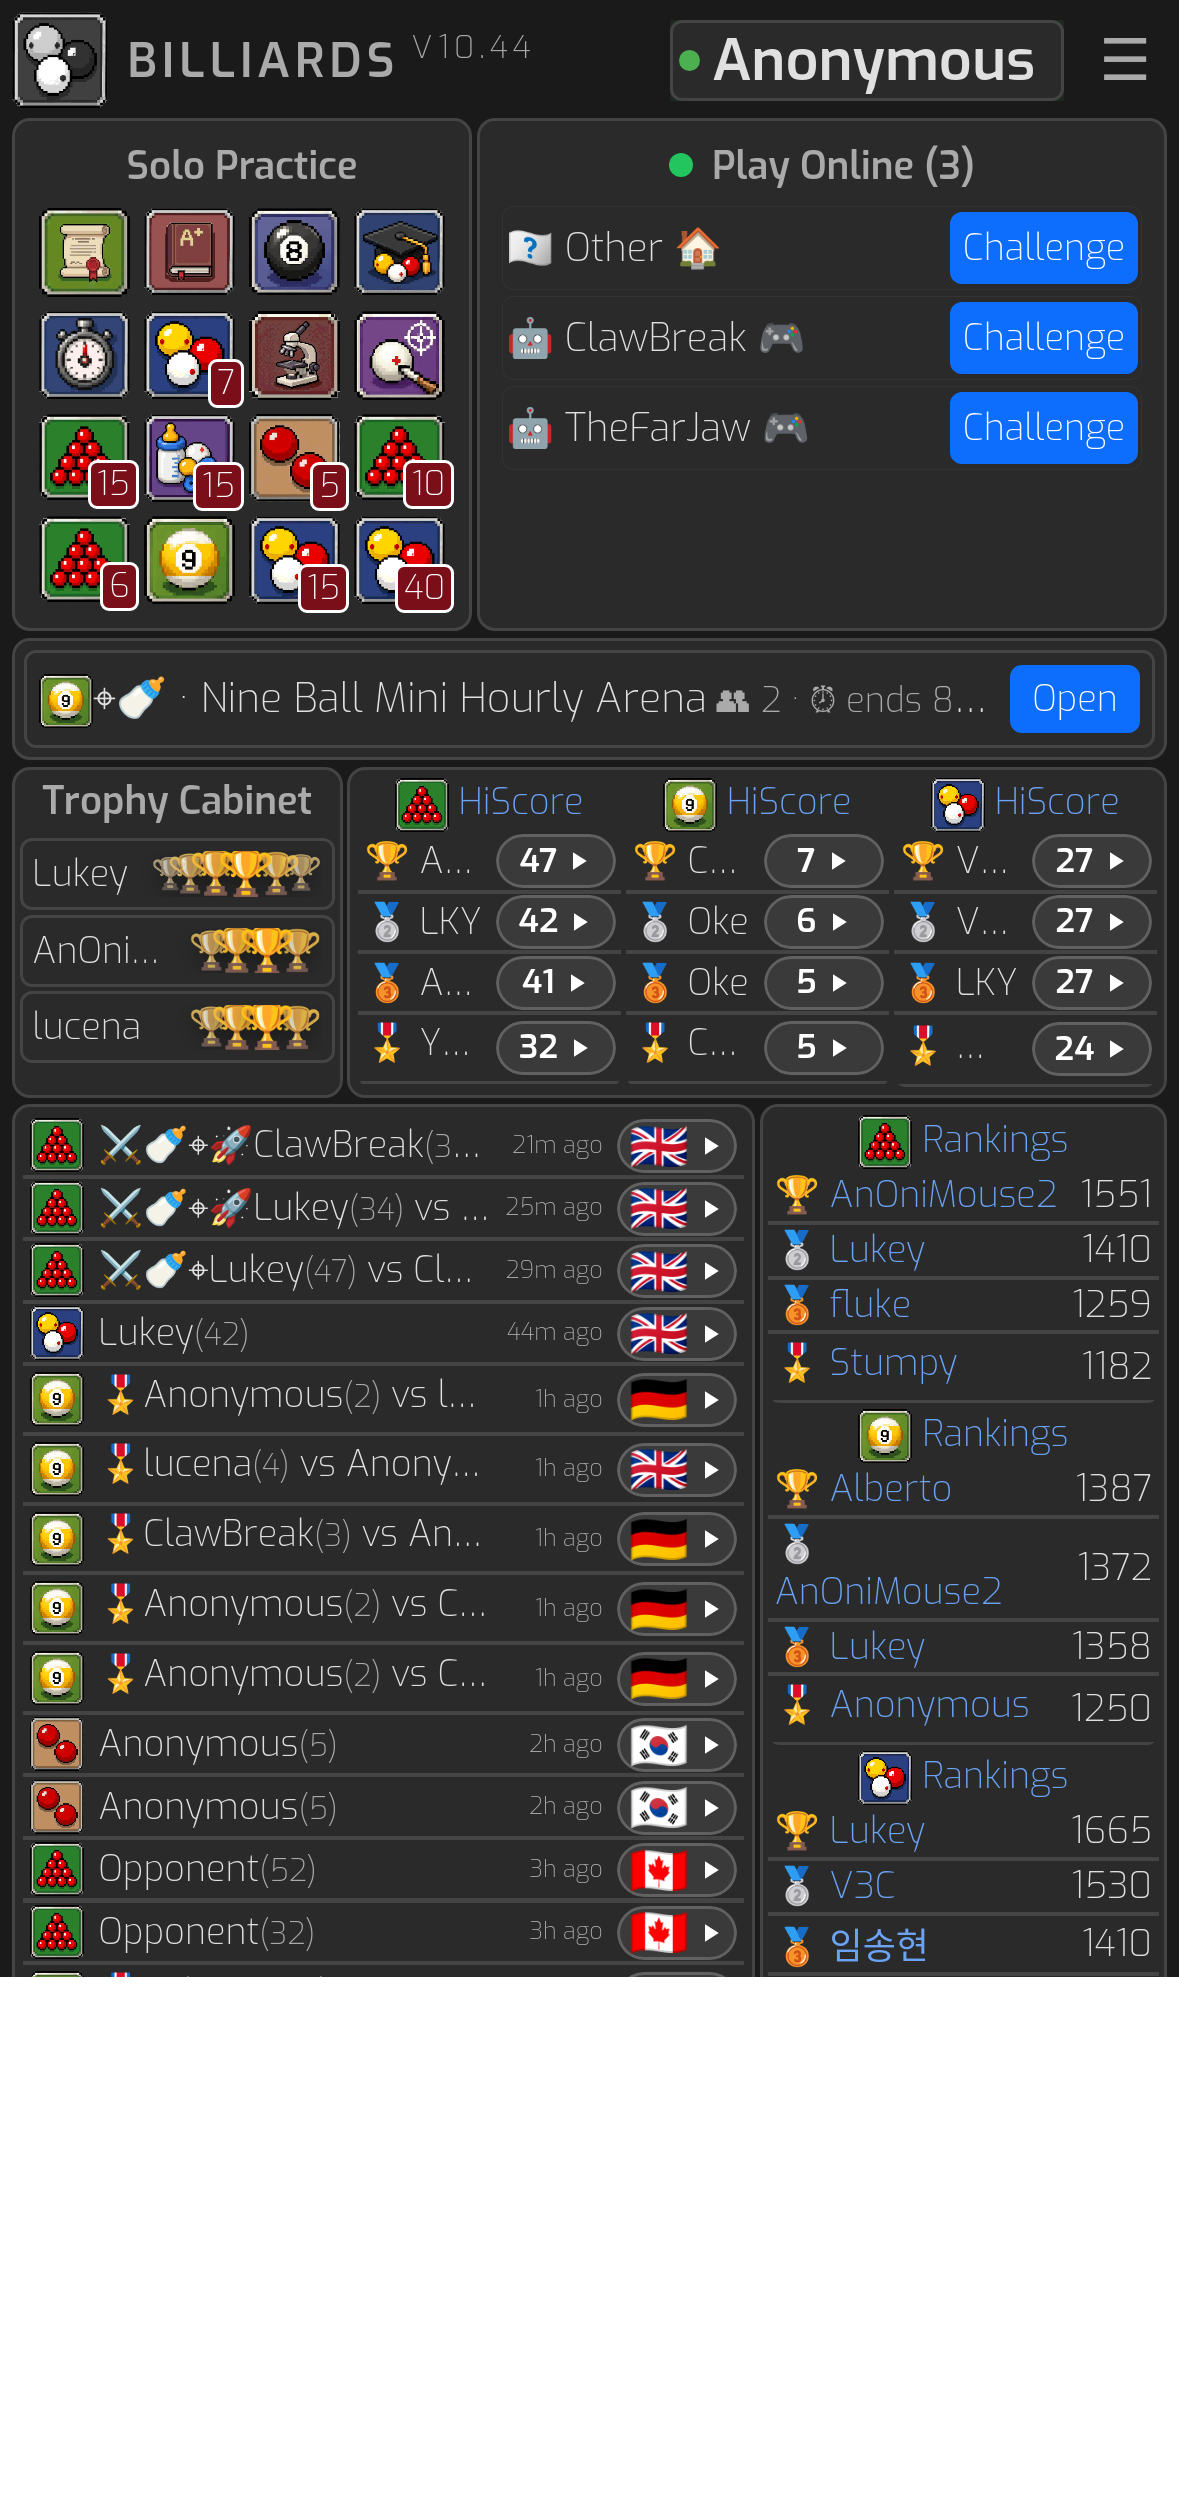
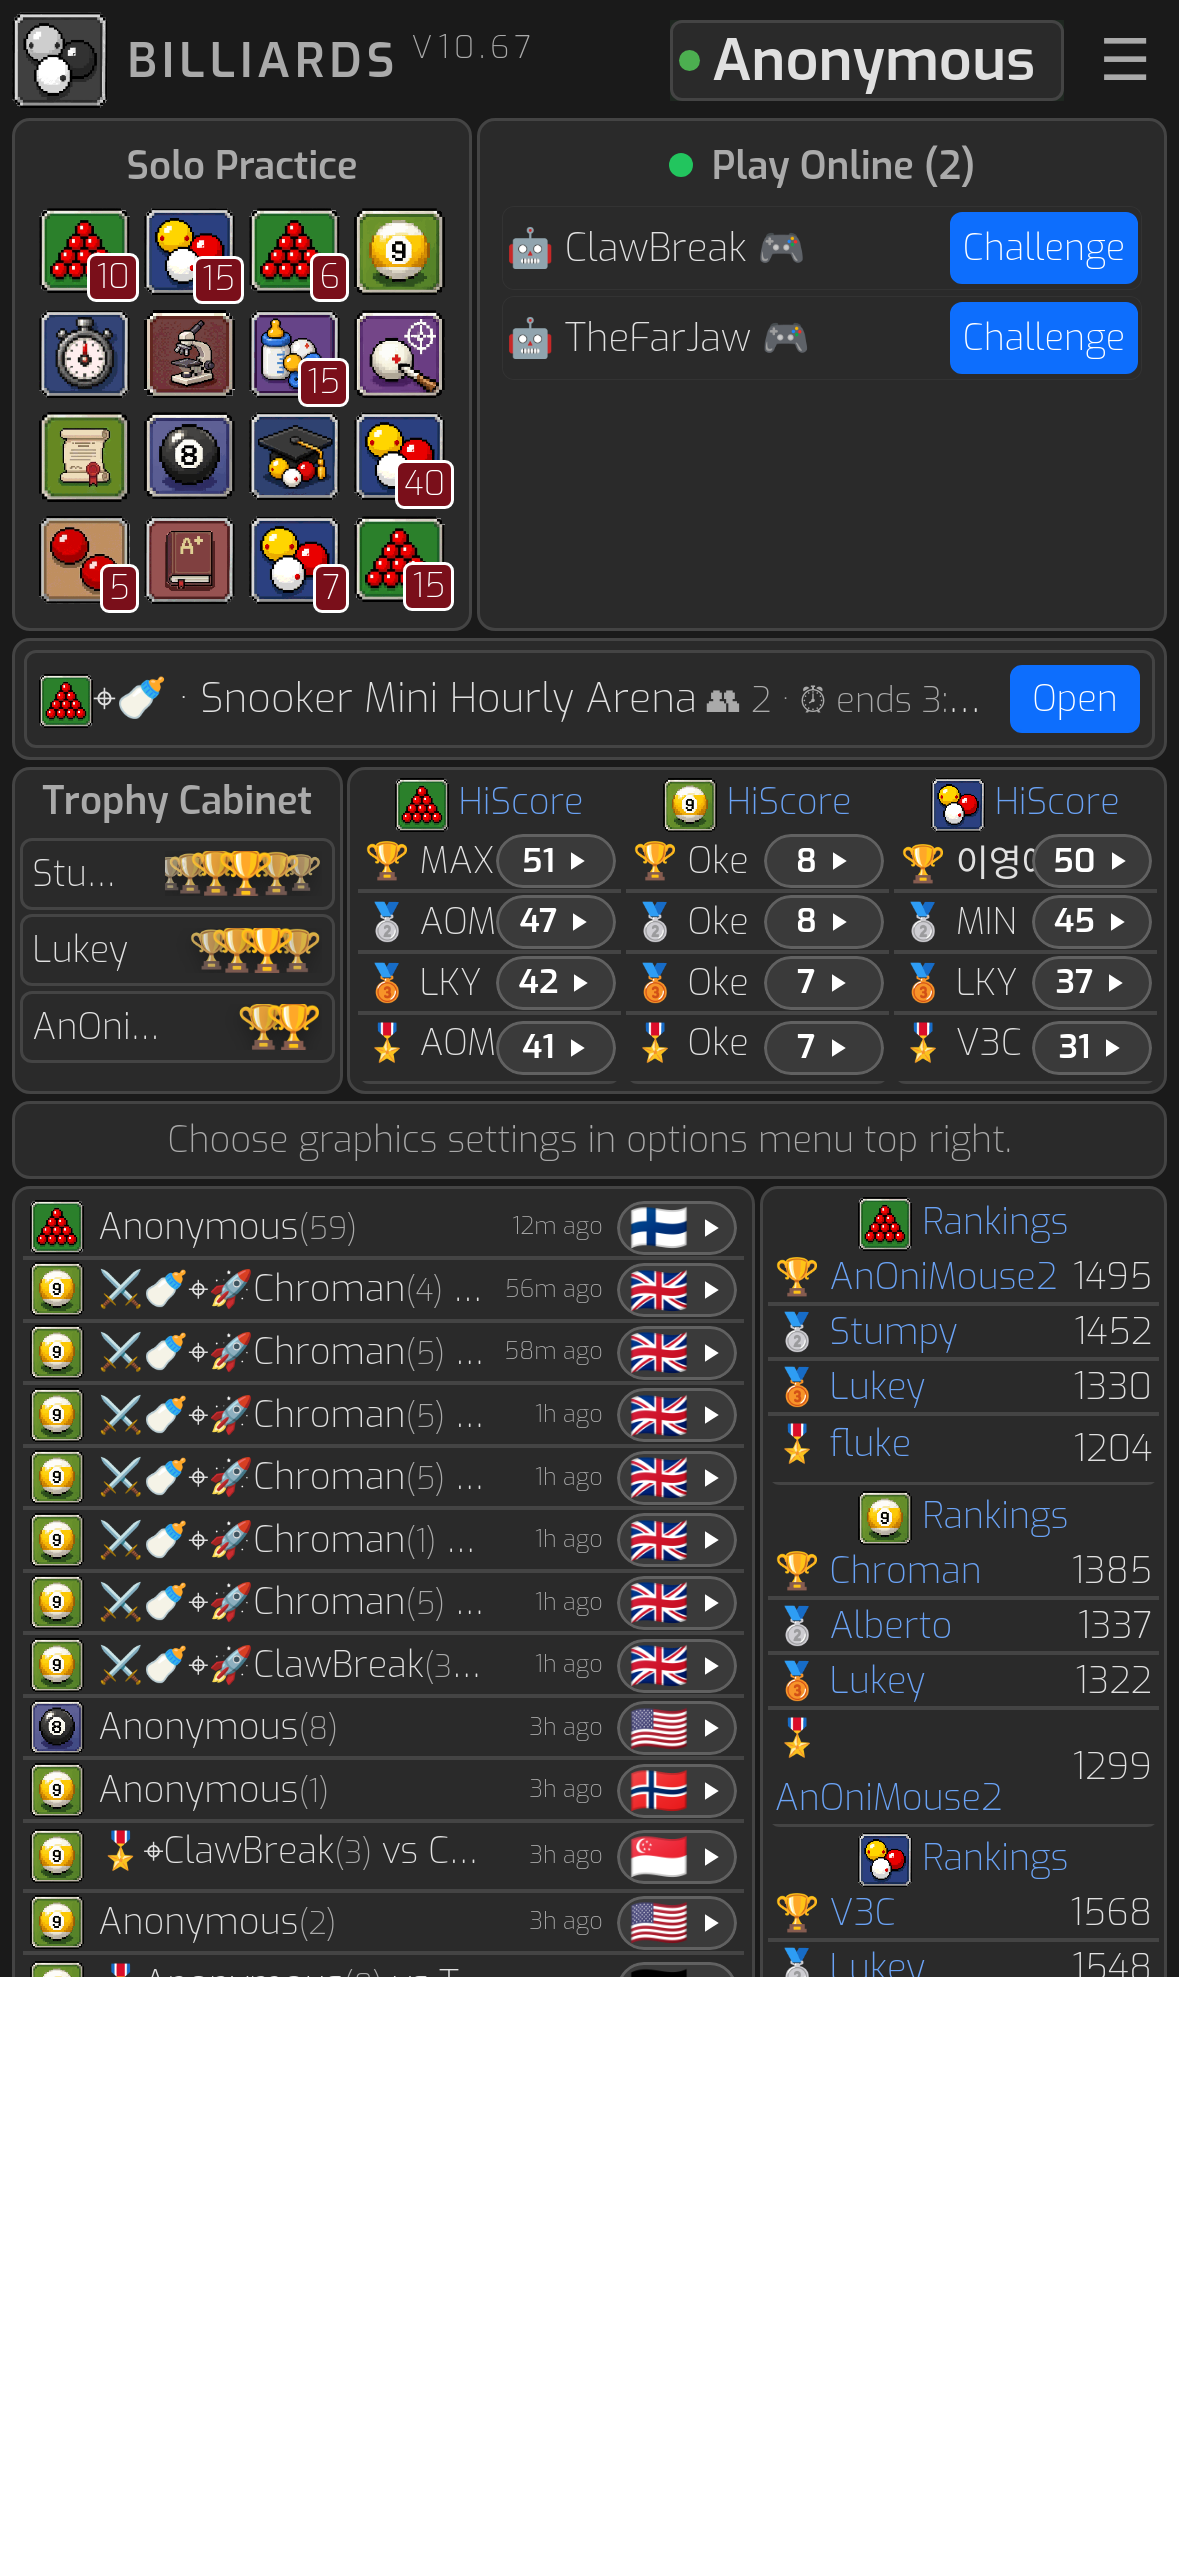
fmt

Changed region(s): [[0.0, 0.0, 1.0, 0.8106], [0.4275, 0.0312, 0.9771, 0.1871], [0.9466, 0.0, 0.9771, 0.0312]]

diff --git a/src/client/info-panel.js b/src/client/info-panel.js
@@ -6,6 +6,15 @@ import './replay-button.js';
 import './cabinate.js';
 import './motd-panel.js';
 
+// The replay pill shows only a play icon, so it needs a text alternative: without
+// one every pill is an unnamed "link" in a screen reader's link list, and the
+// different match URLs look like identical links with different destinations.
+const replayLabel = m => {
+    const score = v => v != null ? ` ${v}` : '';
+    return `Replay ${m.ruleType} match: ${m.winner}${score(m.winnerScore)}`
+        + (m.loser ? ` vs ${m.loser}${score(m.loserScore)}` : '');
+};
+
 class InfoPanel extends StoreElement {
     static styles = INFO_PANEL_STYLES;
     connectedCallback() {
@@ -67,7 +76,7 @@ class InfoPanel extends StoreElement {
         return hiscoreGames.map(game => html`
             <div class="tbl${game === 'sagu' ? ' sagu-hi' : ''}"><table><caption><a href="${SCOREBOARD_URL}/leaderboard" target="_blank" rel="noopener" style="font-weight:200;font-size:0.75rem">${ruleIcon(game)} HiScore</a></caption>
             <tr><th>Name</th><th></th></tr>
-                ${hiscores[game].slice(0, 4).map((s, i) => html`<tr><td>${renderTrophy(i)} ${s.name}</td><td><replay-button url="${replayUrl(`${SCOREBOARD_URL}/api/rank/${s.id}?ruletype=${game}&lod=${userStore.lod}`, userStore.clientId, userStore.userName)}" label="${s.score}"></replay-button></td></tr>`)}
+                ${hiscores[game].slice(0, 4).map((s, i) => html`<tr><td>${renderTrophy(i)} ${s.name}</td><td><replay-button url="${replayUrl(`${SCOREBOARD_URL}/api/rank/${s.id}?ruletype=${game}&lod=${userStore.lod}`, userStore.clientId, userStore.userName)}" label="${s.score}" .ariaLabel=${`Replay ${game} HiScore: ${s.name} ${s.score}`}></replay-button></td></tr>`)}
             </table></div>
         `);
     }
@@ -89,7 +98,7 @@ class InfoPanel extends StoreElement {
                                 <td class="city-col">${m.locationCity ?? ''}</td>
 <td class="replay-col">
                                     ${m.hasReplay
-                                        ? html`<replay-button prefix="${flag(m.locationCountry).emoji}" prefixTitle="${flag(m.locationCountry).title}" url="${replayUrl(`${SCOREBOARD_URL}/api/match-replay?id=${m.id}&lod=${userStore.lod}`, userStore.clientId, userStore.userName)}"></replay-button>`
+                                        ? html`<replay-button prefix="${flag(m.locationCountry).emoji}" prefixTitle="${flag(m.locationCountry).title}" .ariaLabel=${replayLabel(m)} url="${replayUrl(`${SCOREBOARD_URL}/api/match-replay?id=${m.id}&lod=${userStore.lod}`, userStore.clientId, userStore.userName)}"></replay-button>`
                                         : flag(m.locationCountry).emoji}
                                 </td>
                             </tr>`)}
@@ -100,7 +109,7 @@ class InfoPanel extends StoreElement {
                     <div class="group-body">
                         ${games.map(game => html`
                             <div class="tbl"><table><caption><a href="${SCOREBOARD_URL}/elo" target="_blank" rel="noopener">${ruleIcon(game)} <span style="font-size:0.75rem;font-weight:200">Rankings</span></a></caption>
-                             <tr><th>Name</th><th>Score</th><th>W</th><th>L</th></tr>
+                             <tr><th>Name</th><th>Score</th></tr>
                                  ${topPlayers[game].slice(0, 4).map((p, i) => html`<tr>
                                      <td><a href="${SCOREBOARD_URL}/player/${encodeURIComponent(p.name)}?ruleType=${game}">${renderTrophy(i)} ${p.name}</a></td>
                                      <td>${Math.round(p.conservativeRating)}</td>

diff --git a/src/client/styles.js b/src/client/styles.js
@@ -266,9 +266,9 @@ export const SOLO_PANEL_STYLES = css`
 export const INFO_PANEL_STYLES = css`
     :host { display: block; overflow-y: hidden; font-family: 'Exo', sans-serif; font-weight: 200; font-size: 0.75rem; color: var(--text); max-height: 40px; opacity: 0; transition: max-height 1s cubic-bezier(0.4, 0, 0.2, 1), opacity 0.6s ease-out 0.15s; }
     /* Capped rather than auto so the reveal can animate. Must clear the tallest
-       layout (a 393px phone: 166px cabinet/HiScore row + 21px MOTD + 413px
-       history/rankings), otherwise the bottom of the match history boxes is cut
-       off by overflow-y: hidden. */
+       layout (a 393px phone: 108px cabinet/HiScore row + 26px MOTD + 413px
+       history/rankings = 547px), otherwise the bottom of the match history
+       boxes is cut off by overflow-y: hidden. */
     :host(.loaded) { max-height: 640px; opacity: 1; }
     .tbl { display: inline-block; vertical-align: top; border-radius: 4px; margin: 0.0625rem; overflow: hidden; }
     table { border-collapse: collapse; width: auto; }
@@ -311,12 +311,14 @@ export const INFO_PANEL_STYLES = css`
        the table out to its max-content width. On a 393px phone each table is
        88px, so once the trophy emoji and the 40px score column (sized for three
        digits) have taken their share the name has ~39px - not enough for "AOM"
-       beside a trophy. Clipping those names ("AnO…") hides who scored, so the
-       name wraps onto a second line instead; a taller row beats a cut-off name.
-       vertical-align stays middle so the name and its medal sit level with the
-       score pill, which is what the cell default gives for a single-line row. */
+       beside a trophy. Rows must stay on one line whatever the name, so the
+       name is left to run a few pixels into the score pill instead of wrapping;
+       the pill paints over the overlap, and the .tbl radius clip trims only a
+       very long name. vertical-align stays middle so the name and its medal sit
+       level with the score pill, which is what the cell default gives for a
+       single-line row. */
     .top-row .hiscores .tbl table { width: 100%; table-layout: fixed; }
-    .top-row .hiscores td:first-child { white-space: normal; overflow-wrap: anywhere; vertical-align: middle; }
+    .top-row .hiscores td:first-child { white-space: nowrap; vertical-align: middle; }
     .top-row .hiscores td:last-child { width: 40px; }
     /* Message of the day, full width under the cabinet and HiScore groups. A
        touch more vertical padding than .group so a single line of text does not

diff --git a/src/client/replay-button.js b/src/client/replay-button.js
@@ -6,7 +6,8 @@ class ReplayButton extends LitElement {
         color: { type: String },
         label: { type: String },
         prefix: { type: String },
-        prefixTitle: { type: String }
+        prefixTitle: { type: String },
+        ariaLabel: { type: String }
     };
 
     static styles = css`
@@ -66,6 +67,7 @@ class ReplayButton extends LitElement {
             <a
                 class="pill"
                 href=${this.url}
+                aria-label=${this.ariaLabel}
                 style=${style}>
                 ${prefixSpan}
                 ${this.label ? html`<span>${this.label}</span>` : ''}

diff --git a/src/client/utils.js b/src/client/utils.js
@@ -1,7 +1,7 @@
 
 import { html } from 'lit';
 
-export const CLIENTVERSION = 1066;
+export const CLIENTVERSION = 1068;
 export const formatVersion = (v) => `v${Math.floor(v / 100)}.${String(v % 100).padStart(2, '0')}`;
 
 
